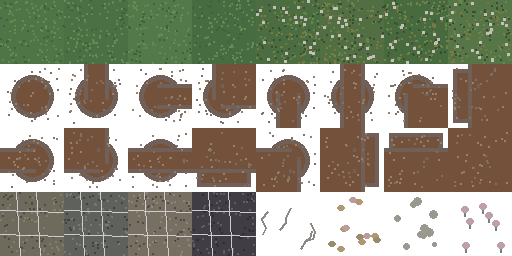
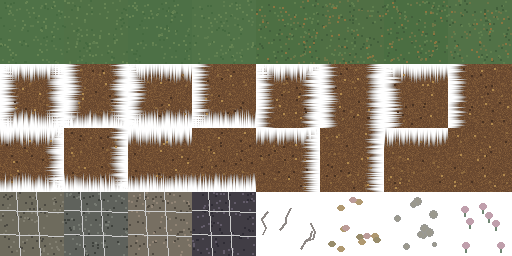
Soften generated overworld dirt roads

diff --git a/patches/compile_assets.py b/patches/compile_assets.py
@@ -3,6 +3,7 @@
 
 from __future__ import annotations
 
+import math
 import random
 from pathlib import Path
 from typing import Iterable
@@ -67,46 +68,77 @@ def solid_tile(
     return tile
 
 
+def channel_noise(x: int, y: int, seed: int) -> int:
+    value = (x * 374761393 + y * 668265263 + seed * 2246822519) & 0xFFFFFFFF
+    value = ((value ^ (value >> 13)) * 1274126177) & 0xFFFFFFFF
+    return (value ^ (value >> 16)) & 0xFF
+
+
+def clamp(value: float, lo: float, hi: float) -> float:
+    return max(lo, min(hi, value))
+
+
 def road_tile(mask: int, seed: int) -> Image.Image:
     tile = Image.new("RGBA", (TILE, TILE), (0, 0, 0, 0))
+    pixels = tile.load()
+    base = rgba("#6a4930")
+    warm = rgba("#7c5737")
+    dark = rgba("#4c3323")
+    grit = rgba("#9a7544")
+    connected_n = (mask & 1) != 0
+    connected_e = (mask & 2) != 0
+    connected_s = (mask & 4) != 0
+    connected_w = (mask & 8) != 0
+
+    for y in range(TILE):
+        for x in range(TILE):
+            alpha = 255.0
+            edge_width = 13.0
+
+            if not connected_n:
+                alpha = min(alpha, clamp((y - 2.0 + (channel_noise(x, 0, seed) - 128) * 0.035) / edge_width, 0.0, 1.0) * 255.0)
+            if not connected_e:
+                alpha = min(alpha, clamp((TILE - 3.0 - x + (channel_noise(63, y, seed + 1) - 128) * 0.035) / edge_width, 0.0, 1.0) * 255.0)
+            if not connected_s:
+                alpha = min(alpha, clamp((TILE - 3.0 - y + (channel_noise(x, 63, seed + 2) - 128) * 0.035) / edge_width, 0.0, 1.0) * 255.0)
+            if not connected_w:
+                alpha = min(alpha, clamp((x - 2.0 + (channel_noise(0, y, seed + 3) - 128) * 0.035) / edge_width, 0.0, 1.0) * 255.0)
+
+            if alpha <= 0.0:
+                continue
+
+            noise = channel_noise(x, y, seed + 9)
+            wave = math.sin((x * 0.21) + (y * 0.13) + seed * 0.01) * 7.0
+            mix = clamp((noise + wave - 82.0) / 145.0, 0.0, 1.0)
+            r = int(base[0] * (1.0 - mix) + warm[0] * mix)
+            g = int(base[1] * (1.0 - mix) + warm[1] * mix)
+            b = int(base[2] * (1.0 - mix) + warm[2] * mix)
+
+            if noise < 24:
+                r = int(r * 0.78 + dark[0] * 0.22)
+                g = int(g * 0.78 + dark[1] * 0.22)
+                b = int(b * 0.78 + dark[2] * 0.22)
+            elif noise > 226:
+                r = int(r * 0.76 + grit[0] * 0.24)
+                g = int(g * 0.76 + grit[1] * 0.24)
+                b = int(b * 0.76 + grit[2] * 0.24)
+
+            if alpha < 235.0:
+                r = int(r * 0.78 + dark[0] * 0.22)
+                g = int(g * 0.78 + dark[1] * 0.22)
+                b = int(b * 0.78 + dark[2] * 0.22)
+
+            pixels[x, y] = (r, g, b, int(alpha))
+
     draw = ImageDraw.Draw(tile)
-    edge = rgba("#4a3123", 220)
-    dirt = rgba("#6e4930", 248)
-    light = rgba("#8a613d", 220)
-    connections = sum(1 for bit in (1, 2, 4, 8) if mask & bit)
-
-    if mask == 15:
-        draw.rectangle([0, 0, 63, 63], fill=dirt)
-    elif connections >= 3:
-        draw.rectangle([5, 5, 58, 58], fill=edge)
-        draw.rectangle([9, 9, 54, 54], fill=dirt)
-    else:
-        draw.ellipse([11, 11, 53, 53], fill=edge)
-        draw.ellipse([16, 16, 48, 48], fill=dirt)
-
-    if mask & 1:
-        draw.rectangle([20, 0, 44, 35], fill=edge)
-        draw.rectangle([24, 0, 40, 39], fill=dirt)
-    if mask & 2:
-        draw.rectangle([29, 20, 63, 44], fill=edge)
-        draw.rectangle([25, 24, 63, 40], fill=dirt)
-    if mask & 4:
-        draw.rectangle([20, 29, 44, 63], fill=edge)
-        draw.rectangle([24, 25, 40, 63], fill=dirt)
-    if mask & 8:
-        draw.rectangle([0, 20, 35, 44], fill=edge)
-        draw.rectangle([0, 24, 39, 40], fill=dirt)
-
-    if (mask & 1) and (mask & 2):
-        draw.rectangle([32, 0, 63, 32], fill=dirt)
-    if (mask & 2) and (mask & 4):
-        draw.rectangle([32, 32, 63, 63], fill=dirt)
-    if (mask & 4) and (mask & 8):
-        draw.rectangle([0, 32, 32, 63], fill=dirt)
-    if (mask & 8) and (mask & 1):
-        draw.rectangle([0, 0, 32, 32], fill=dirt)
-
-    draw_noise(draw, (4, 4, 60, 60), seed, [light, rgba("#503622", 210)], 38, 2)
+    rng = random.Random(seed)
+    for _ in range(26):
+        x = rng.randrange(4, 60)
+        y = rng.randrange(4, 60)
+        if tile.getpixel((x, y))[3] < 220:
+            continue
+        color = rng.choice([rgba("#8f6b3f"), rgba("#493222"), rgba("#b18a4e")])
+        draw.rectangle([x, y, x + 1, y + 1], fill=color)
     return tile
 
 
@@ -147,14 +179,14 @@ def detail_tile(kind: str, seed: int) -> Image.Image:
 
 def make_ground_atlas() -> Image.Image:
     atlas = Image.new("RGBA", (COLS * TILE, 4 * TILE), (0, 0, 0, 0))
-    grass = [rgba("#4f7547"), rgba("#4b7043"), rgba("#53794a"), rgba("#486c42")]
+    grass = [rgba("#4f7247"), rgba("#507146"), rgba("#4d7046"), rgba("#517348")]
     for i, base in enumerate(grass):
-        paste_tile(atlas, i, solid_tile(base, 100 + i, [rgba("#628650"), rgba("#3d633c"), rgba("#6a8b55")], 145))
+        paste_tile(atlas, i, solid_tile(base, 100 + i, [rgba("#5e7d4f"), rgba("#466a40"), rgba("#668453")], 115))
 
-    wild = [rgba("#4b6d41"), rgba("#526f43"), rgba("#476a3f"), rgba("#577647")]
+    wild = [rgba("#4d6f43"), rgba("#506f44"), rgba("#4b6e42"), rgba("#527247")]
     for local_id, base in enumerate(wild, start=4):
-        tile = solid_tile(base, 200 + local_id, [rgba("#67884d"), rgba("#384f34"), rgba("#7b7941")], 175)
-        draw_noise(ImageDraw.Draw(tile), (0, 0, TILE, TILE), 500 + local_id, [rgba("#9a7840", 150)], 24, 3)
+        tile = solid_tile(base, 200 + local_id, [rgba("#607f4e"), rgba("#425f3b"), rgba("#6d7647")], 130)
+        draw_noise(ImageDraw.Draw(tile), (0, 0, TILE, TILE), 500 + local_id, [rgba("#8c7540")], 18, 2)
         paste_tile(atlas, local_id, tile)
 
     for mask in range(16):

diff --git a/docs/11-print-asset-machenism/overworld_visual_rebuild.md b/docs/11-print-asset-machenism/overworld_visual_rebuild.md
@@ -46,6 +46,23 @@ be force-added when committing:
 git add -f assets\environments\overworld_tiles_v2.png assets\environments\overworld_objects_v2.png
 ```
 
+## Dirt Road Style
+
+Road tiles are alpha overlays on top of grass. They should read as worn soil,
+not as hard-edged wooden planks or stamped rectangles.
+
+`patches/compile_assets.py` generates each road tile from the road connection
+mask with:
+
+- Full-opacity dirt in connected directions.
+- Noisy alpha falloff on unconnected edges.
+- Darker pixels only near the fade edge.
+- Opaque ground speckles so grass tiles never darken toward black.
+
+If a future pass makes roads look tiled again, fix the generator first and then
+regenerate the atlas. Do not hand-paint only the committed PNG, because the next
+generator run would reintroduce the artifact.
+
 ## Tiled Layer Rules
 
 Use tile layers for art that does not need individual Y-sorting:
